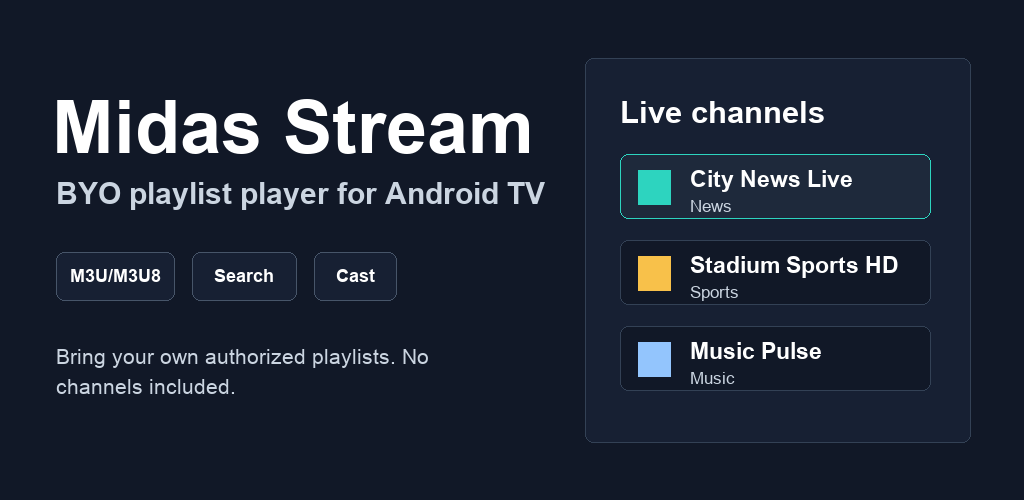
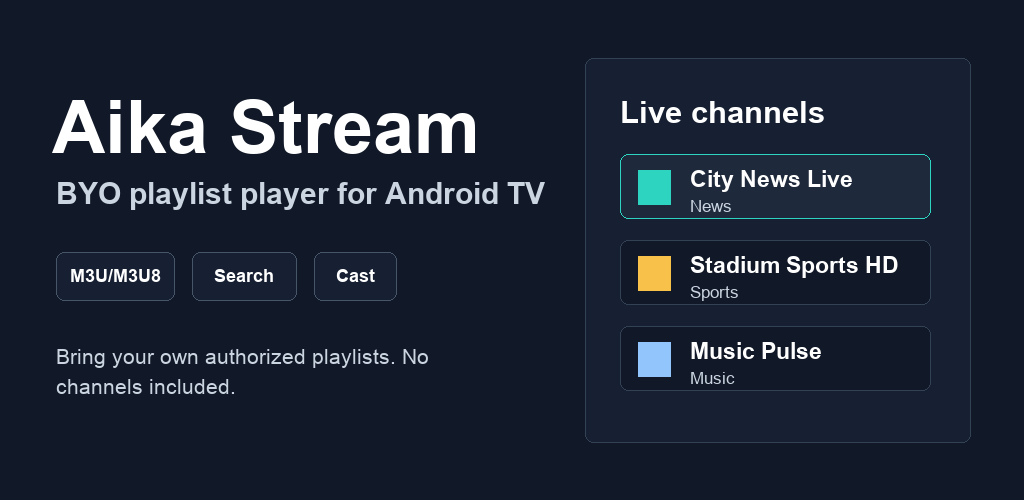
chore(tv): regenerate Aika Stream Play store graphics
Re-run the deterministic generator script so the five TV/feature-graphic
PNGs match the already-renamed text in
packages/feature_iptv/tool/airo_tv_store_assets.py — the earlier rename
PR updated the script's strings but left these baked pixels stale (and
missed the feature graphic entirely). Also note in the README that
05-mobile-multiple-playlist-sources-1080x1920.png is a manual physical
capture, still carries the old header/URLs, and is left untouched
pending its own recapture for the Aika Stream rebrand.

Changed region(s): [[0.0312, 0.18, 0.5312, 0.33]]

diff --git a/docs/store-assets/airo-tv/README.md b/docs/store-assets/airo-tv/README.md
@@ -26,7 +26,11 @@ or personal account details.
 qualification capture. Third-party playback imagery, channel branding, and
 personal notification icons were replaced with owned Airo demo artwork. It is
 a candidate for the next qualified mobile listing; the published
-`v0.0.6-rc.1` release does not include multiple-playlist merge.
+`v0.0.6-rc.1` release does not include multiple-playlist merge. It is a manual
+physical-device capture, not output of the generator script below, still
+carries the older "Airo TV" header and iptv-org sample playlist URLs, and is
+**not part of the first Aika Stream TV listing** — it is left untouched until
+it is recaptured for that rebrand.
 
 ## Capture a release candidate
 
